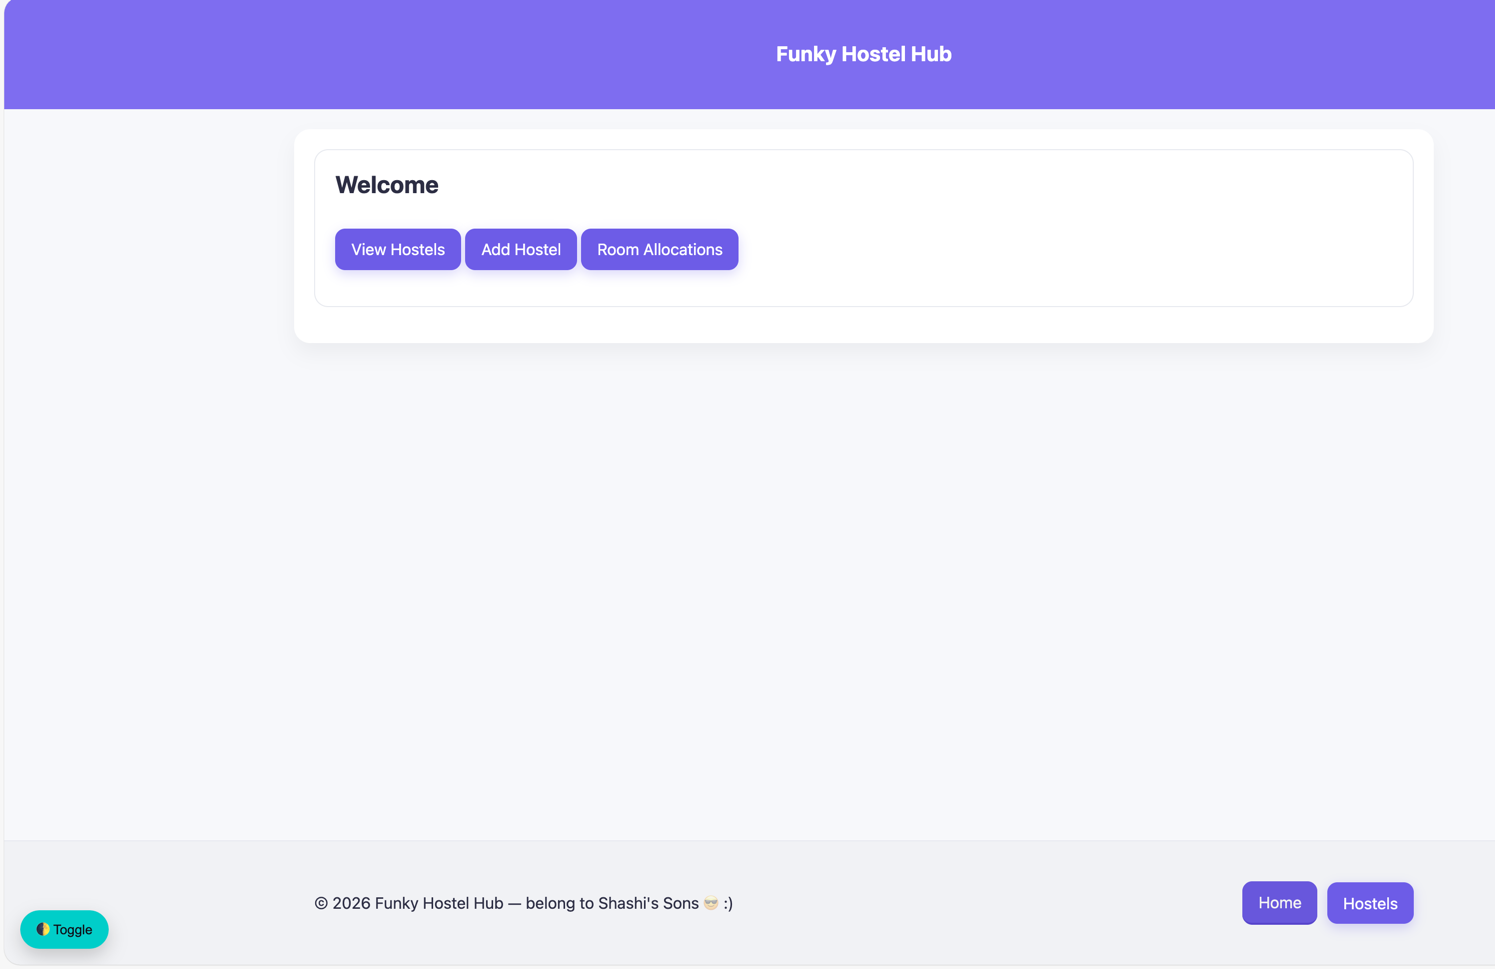
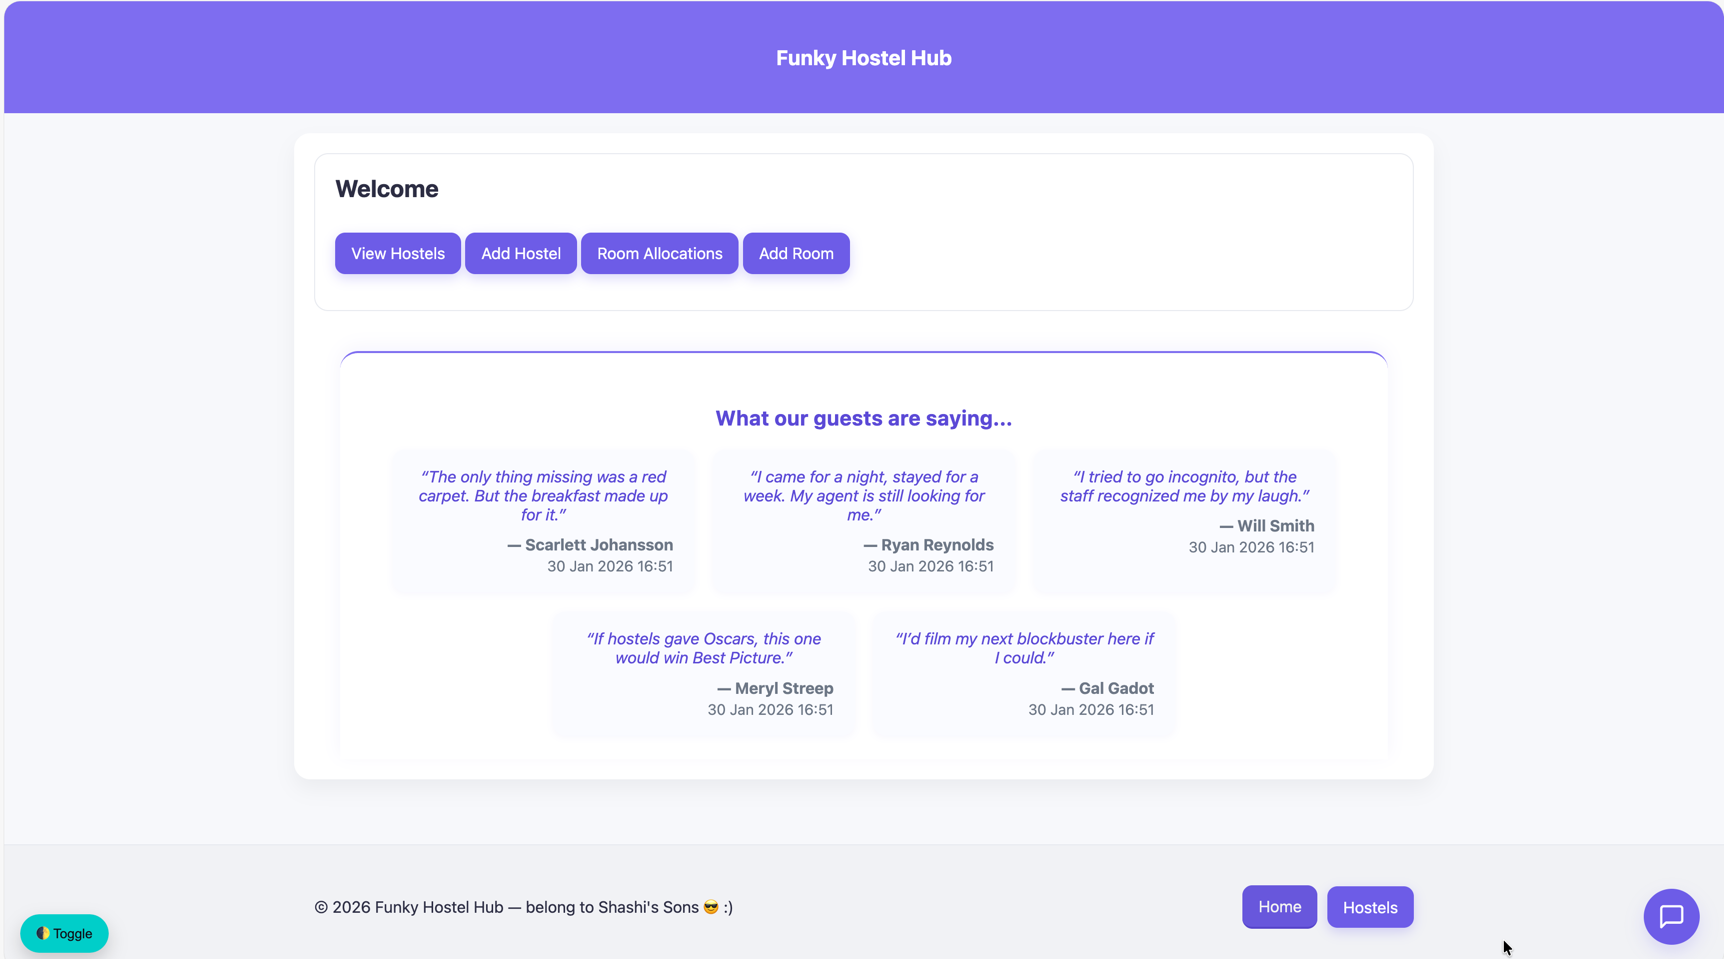
Ready for GitHub+ code cleanup

diff --git a/README.md b/README.md
@@ -14,6 +14,11 @@ A simple hostel manager built with Spring Boot and Thymeleaf. It lets you:
 ./gradlew clean build
 ./gradlew bootRun
 ```
+
+## Home Page Preview
+
+![Home page screenshot](images/home.png)
+
 Then open:
 - Home page: http://localhost:8080/
 - Hostels list: http://localhost:8080/hostels
